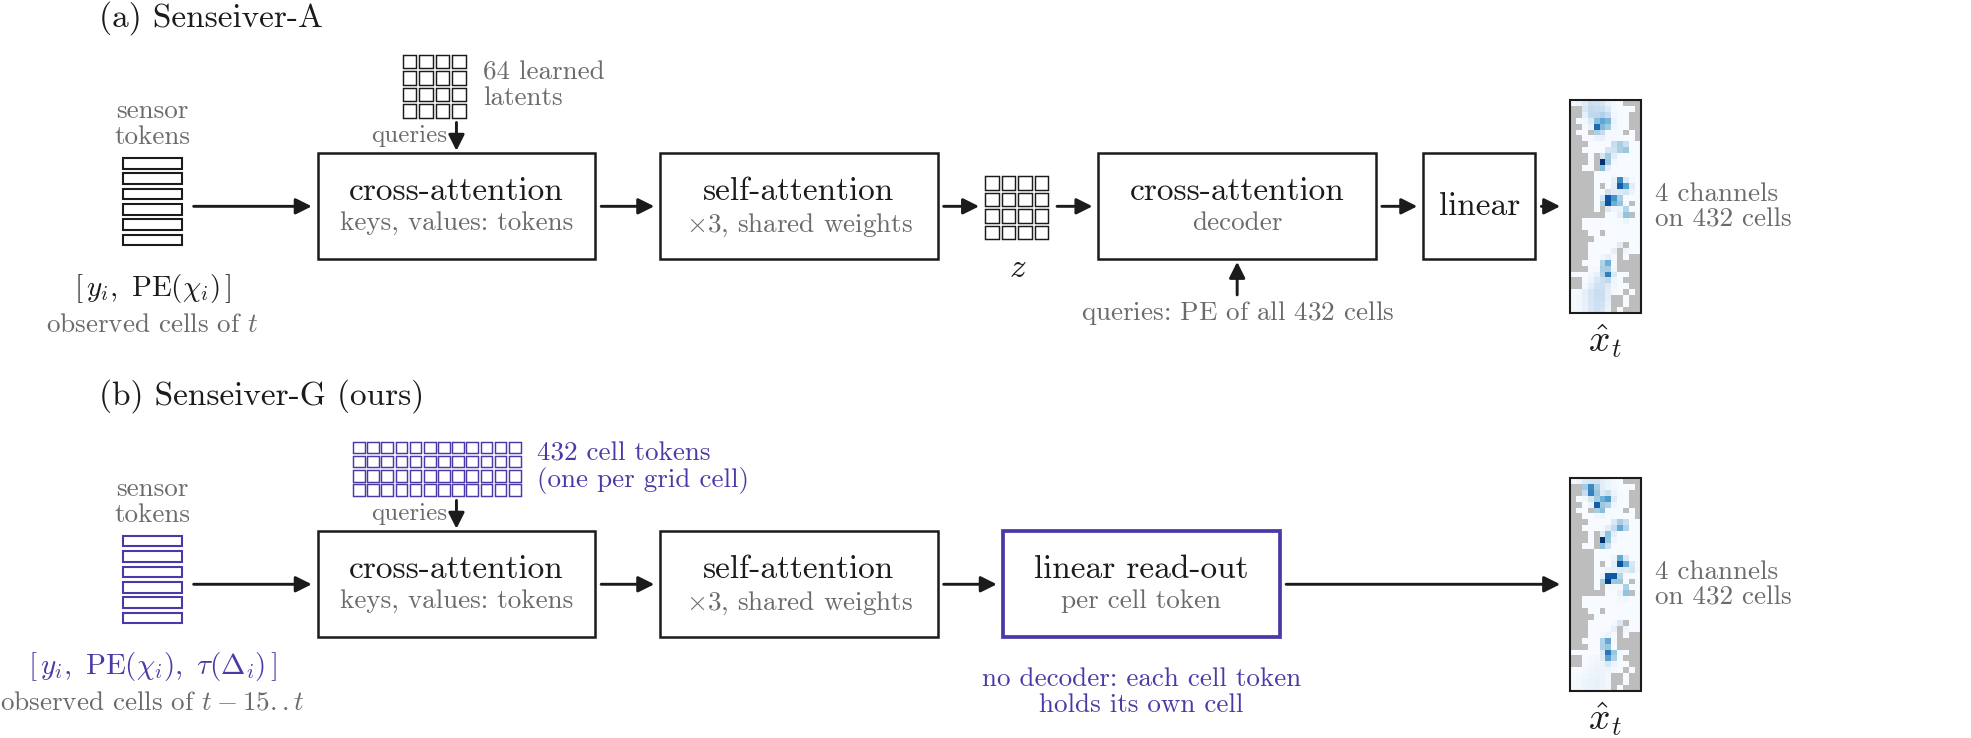
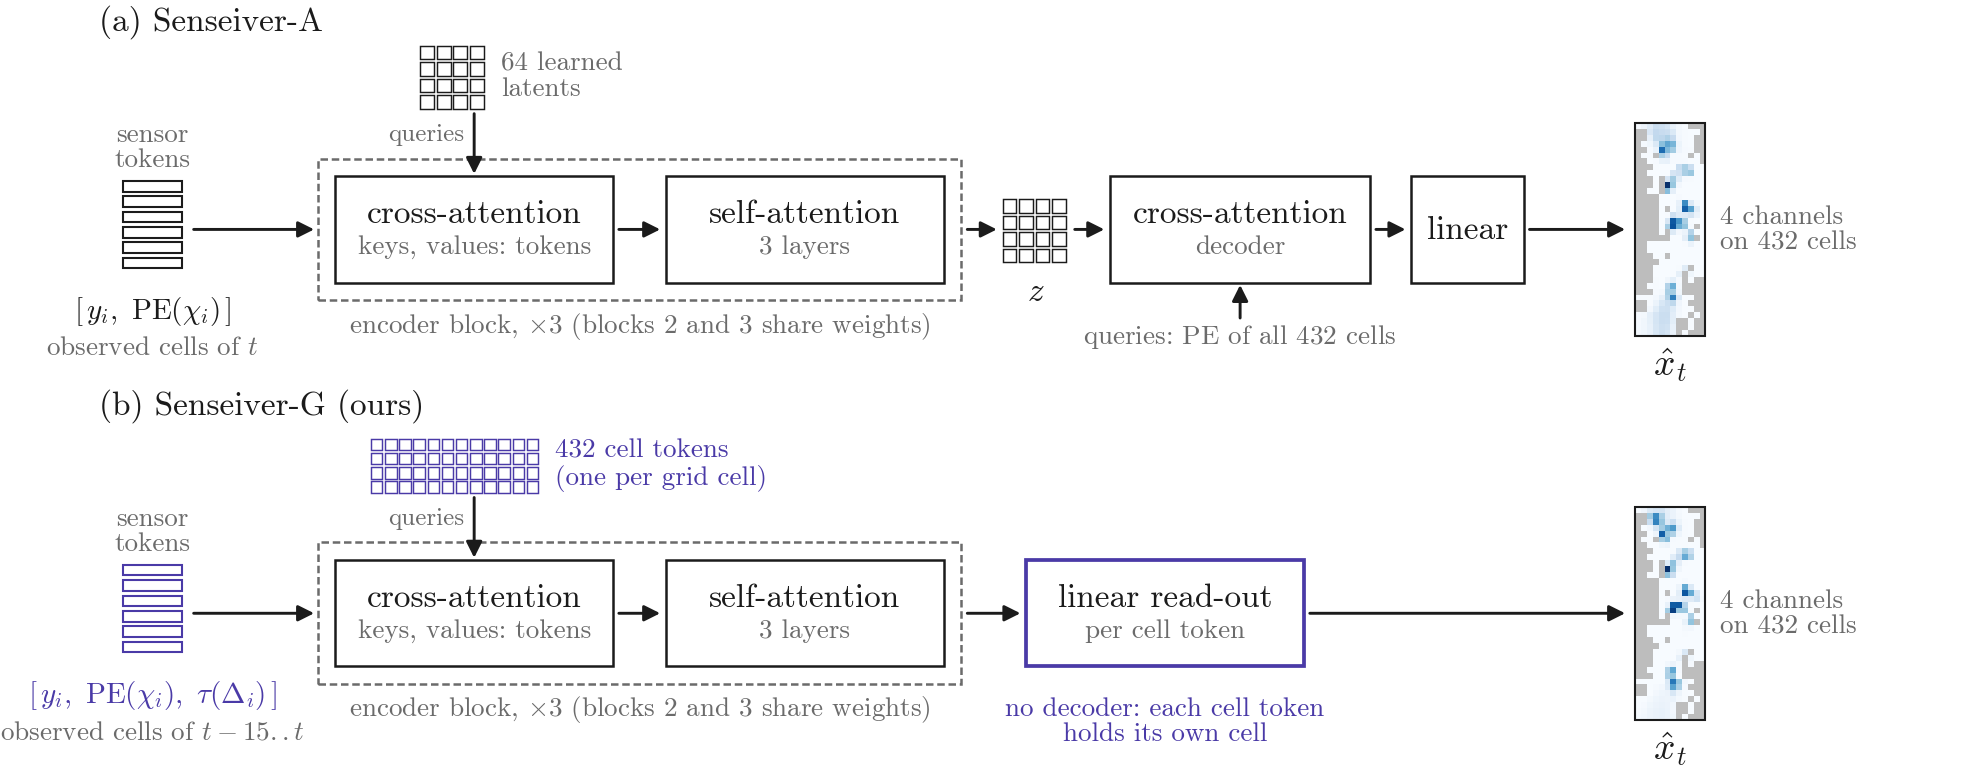
Senseiver figure: the encoder is 3 blocks of cross-attention + 3 self-attention layers
Each block re-reads the sensor tokens; block 1 has its own weights, blocks 2 and 3
share one set (methods/senseiver/model.py). The figure drew one cross-attention
followed by shared self-attention.

diff --git a/thesis_figures/senseiver.py b/thesis_figures/senseiver.py
@@ -4,8 +4,11 @@
 
 Shapes are those of the packaged checkpoints (supervisor_evaluation/models/senseiver_*.pt):
 tokens of 4 observed values + a 64-d sin-cos position code (+ 8-d learned time embedding
-and the scalar offset for G), projected to 32 channels; 3 encoder layers with shared
-weights. Parts that G changes are drawn in G's colour. Output thumbnails are each
+and the scalar offset for G), projected to 32 channels; 3 encoder blocks, each a
+cross-attention from the queries to the tokens followed by 3 self-attention layers
+(block 1 has its own weights, blocks 2 and 3 share one set). A decodes with a
+cross-attention from the 432 cells' position codes; G has no decoder, a linear head
+shared by all cells reads each cell's token. Parts that G changes are drawn in G's colour. Output thumbnails are each
 model's own density reconstruction of the example frame.
 """
 from __future__ import annotations
@@ -13,6 +16,7 @@ from __future__ import annotations
 import os
 
 import numpy as np
+from matplotlib.patches import Rectangle
 
 from compare import plotstyle as ps
 from thesis_figures.common import (FS, FS_SMALL, GREY, LINE, arrow, block, canvas, field_rgb,
@@ -29,13 +33,13 @@ def main() -> None:
     vmax = float(np.percentile(d["truth"][0][walk], 99))
     G = method_color("Senseiver-G (ours)")
 
-    fig, ax = canvas(16.0, 6.1)
+    fig, ax = canvas(16.0, 6.5)
     bw, bh = 2.35, 0.9                                 # block size
-    rows = [("(a) Senseiver-A", "Senseiver-A", 4.35, False),
-            ("(b) Senseiver-G (ours)", "Senseiver-G", 1.15, True)]
+    rows = [("(a) Senseiver-A", "Senseiver-A", 4.55, False),
+            ("(b) Senseiver-G (ours)", "Senseiver-G", 1.3, True)]
     for title, key, yc, is_g in rows:
         c_new = G if is_g else LINE                    # colour of what G changes
-        text(ax, 0.15, yc + 1.45, title, FS, va="bottom")
+        text(ax, 0.15, yc + 1.62, title, FS, va="bottom")
 
         # input tokens
         tk = token_icon(ax, 0.35, yc - 0.33, 6, color=c_new)
@@ -50,23 +54,30 @@ def main() -> None:
         text(ax, 0.6, tk[3] + 0.08, "sensor\ntokens", FS_SMALL - 0.5, color=GREY, ha="center",
              va="bottom", linespacing=1.1)
 
-        # encoder: cross-attention (queries from above) + self-attention
-        ca = block(ax, 2.0, yc - bh / 2, bw, bh, "cross-attention", "keys, values: tokens")
-        arrow(ax, (tk[2] + 0.1, yc), (ca[0] - 0.05, yc))
+        # encoder: 3 blocks, each cross-attention (queries from above) + 3 self-attention
+        # layers; block 1 has its own weights, blocks 2 and 3 share one set
+        ca = block(ax, 2.15, yc - bh / 2, bw, bh, "cross-attention", "keys, values: tokens")
+        sa = block(ax, ca[2] + 0.45, yc - bh / 2, bw, bh, "self-attention", "3 layers")
+        arrow(ax, (ca[2] + 0.05, yc), (sa[0] - 0.05, yc))
+        enc = (ca[0] - 0.15, ca[1] - 0.15, sa[2] + 0.15, ca[3] + 0.15)
+        ax.add_patch(Rectangle((enc[0], enc[1]), enc[2] - enc[0], enc[3] - enc[1], fill=False,
+                               ec=GREY, lw=0.6, ls=(0, (3, 1.5)), zorder=1))
+        text(ax, (enc[0] + enc[2]) / 2, enc[1] - 0.08,
+             r"encoder block, $\times 3$ (blocks 2 and 3 share weights)", FS_SMALL - 0.5,
+             color=GREY, ha="center", va="top")
+        arrow(ax, (tk[2] + 0.1, yc), (enc[0] - 0.03, yc))
         if is_g:
-            q = grid_icon(ax, ca[0] + 0.3, ca[3] + 0.3, 4, 12, 0.12, color=G)
+            q = grid_icon(ax, ca[0] + 0.3, enc[3] + 0.42, 4, 12, 0.12, color=G)
             text(ax, q[2] + 0.12, (q[1] + q[3]) / 2, "432 cell tokens\n(one per grid cell)",
                  FS_SMALL - 0.5, color=G, va="center", linespacing=1.1)
         else:
-            q = grid_icon(ax, ca[0] + 0.72, ca[3] + 0.3, 4, 4, 0.14)
+            q = grid_icon(ax, ca[0] + 0.72, enc[3] + 0.42, 4, 4, 0.14)
             text(ax, q[2] + 0.12, (q[1] + q[3]) / 2, "64 learned\nlatents", FS_SMALL - 0.5,
                  color=GREY, va="center", linespacing=1.1)
         arrow(ax, ((ca[0] + ca[2]) / 2, q[1] - 0.04), ((ca[0] + ca[2]) / 2, ca[3] + 0.02))
-        text(ax, (ca[0] + ca[2]) / 2 - 0.08, (q[1] + ca[3]) / 2, "queries", FS_SMALL - 1,
+        text(ax, (ca[0] + ca[2]) / 2 - 0.08, (q[1] + enc[3]) / 2, "queries", FS_SMALL - 1,
              color=GREY, ha="right", va="center")
-
-        sa = block(ax, ca[2] + 0.55, yc - bh / 2, bw, bh, "self-attention", r"$\times 3$, shared weights")
-        arrow(ax, (ca[2] + 0.05, yc), (sa[0] - 0.05, yc))
+        sa = (sa[0], sa[1], enc[2], sa[3])            # what follows starts after the encoder box
 
         if is_g:
             ro = block(ax, sa[2] + 0.55, yc - bh / 2, bw, bh, "linear read-out", "per cell token",
@@ -76,21 +87,21 @@ def main() -> None:
             text(ax, (ro[0] + ro[2]) / 2, ro[1] - 0.25, "no decoder: each cell token\nholds its own cell",
                  FS_SMALL - 0.5, color=G, ha="center", va="top", linespacing=1.1)
         else:
-            z = grid_icon(ax, sa[2] + 0.4, yc - 0.28, 4, 4, 0.14)
+            z = grid_icon(ax, sa[2] + 0.35, yc - 0.28, 4, 4, 0.14)
             text(ax, (z[0] + z[2]) / 2, z[1] - 0.12, r"$z$", FS, ha="center", va="top")
             arrow(ax, (sa[2] + 0.05, yc), (z[0] - 0.05, yc))
-            de = block(ax, z[2] + 0.4, yc - bh / 2, bw, bh, "cross-attention", "decoder")
+            de = block(ax, z[2] + 0.35, yc - bh / 2, 2.2, bh, "cross-attention", "decoder")
             arrow(ax, (z[2] + 0.05, yc), (de[0] - 0.05, yc))
             text(ax, (de[0] + de[2]) / 2, de[1] - 0.45, r"queries: $\mathrm{PE}$ of all 432 cells",
                  FS_SMALL - 0.5, color=GREY, ha="center", va="center")
             arrow(ax, ((de[0] + de[2]) / 2, de[1] - 0.3), ((de[0] + de[2]) / 2, de[1] - 0.02))
-            li = block(ax, de[2] + 0.4, yc - bh / 2, 0.95, bh, "linear")
+            li = block(ax, de[2] + 0.35, yc - bh / 2, 0.95, bh, "linear")
             arrow(ax, (de[2] + 0.05, yc), (li[0] - 0.05, yc))
             last = li
 
         # output
         pred = d["predictions"][names.index(key)][0]
-        xo = 12.6                                      # same place in both rows
+        xo = 13.15                                     # same place in both rows
         eo = thumbnail(ax, field_rgb(pred, walk, ps.CMAP["density"], vmax), xo, yc - 0.9, OUT_CELL)
         arrow(ax, (last[2] + 0.05, yc), (eo[0] - 0.08, yc))
         text(ax, (eo[0] + eo[1]) / 2, eo[2] - 0.08, r"$\hat{x}_t$", 9, ha="center")
